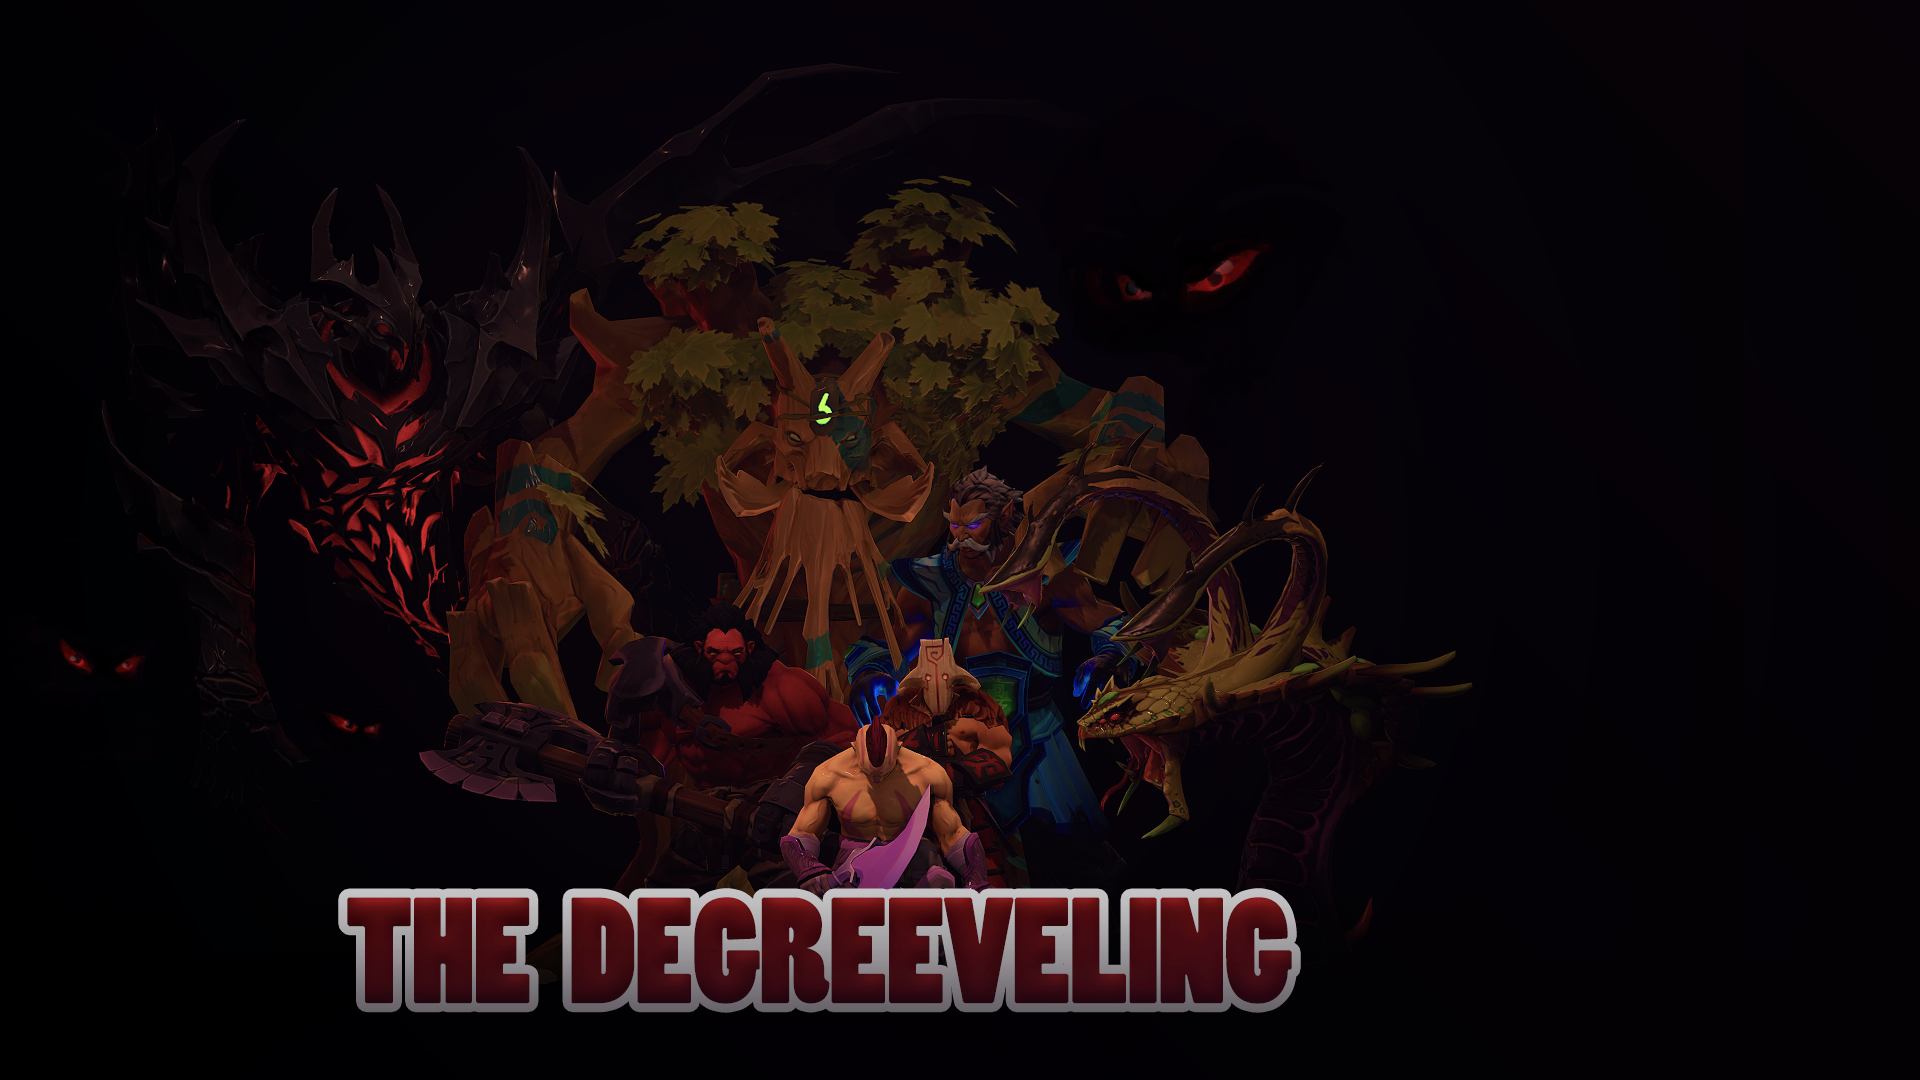
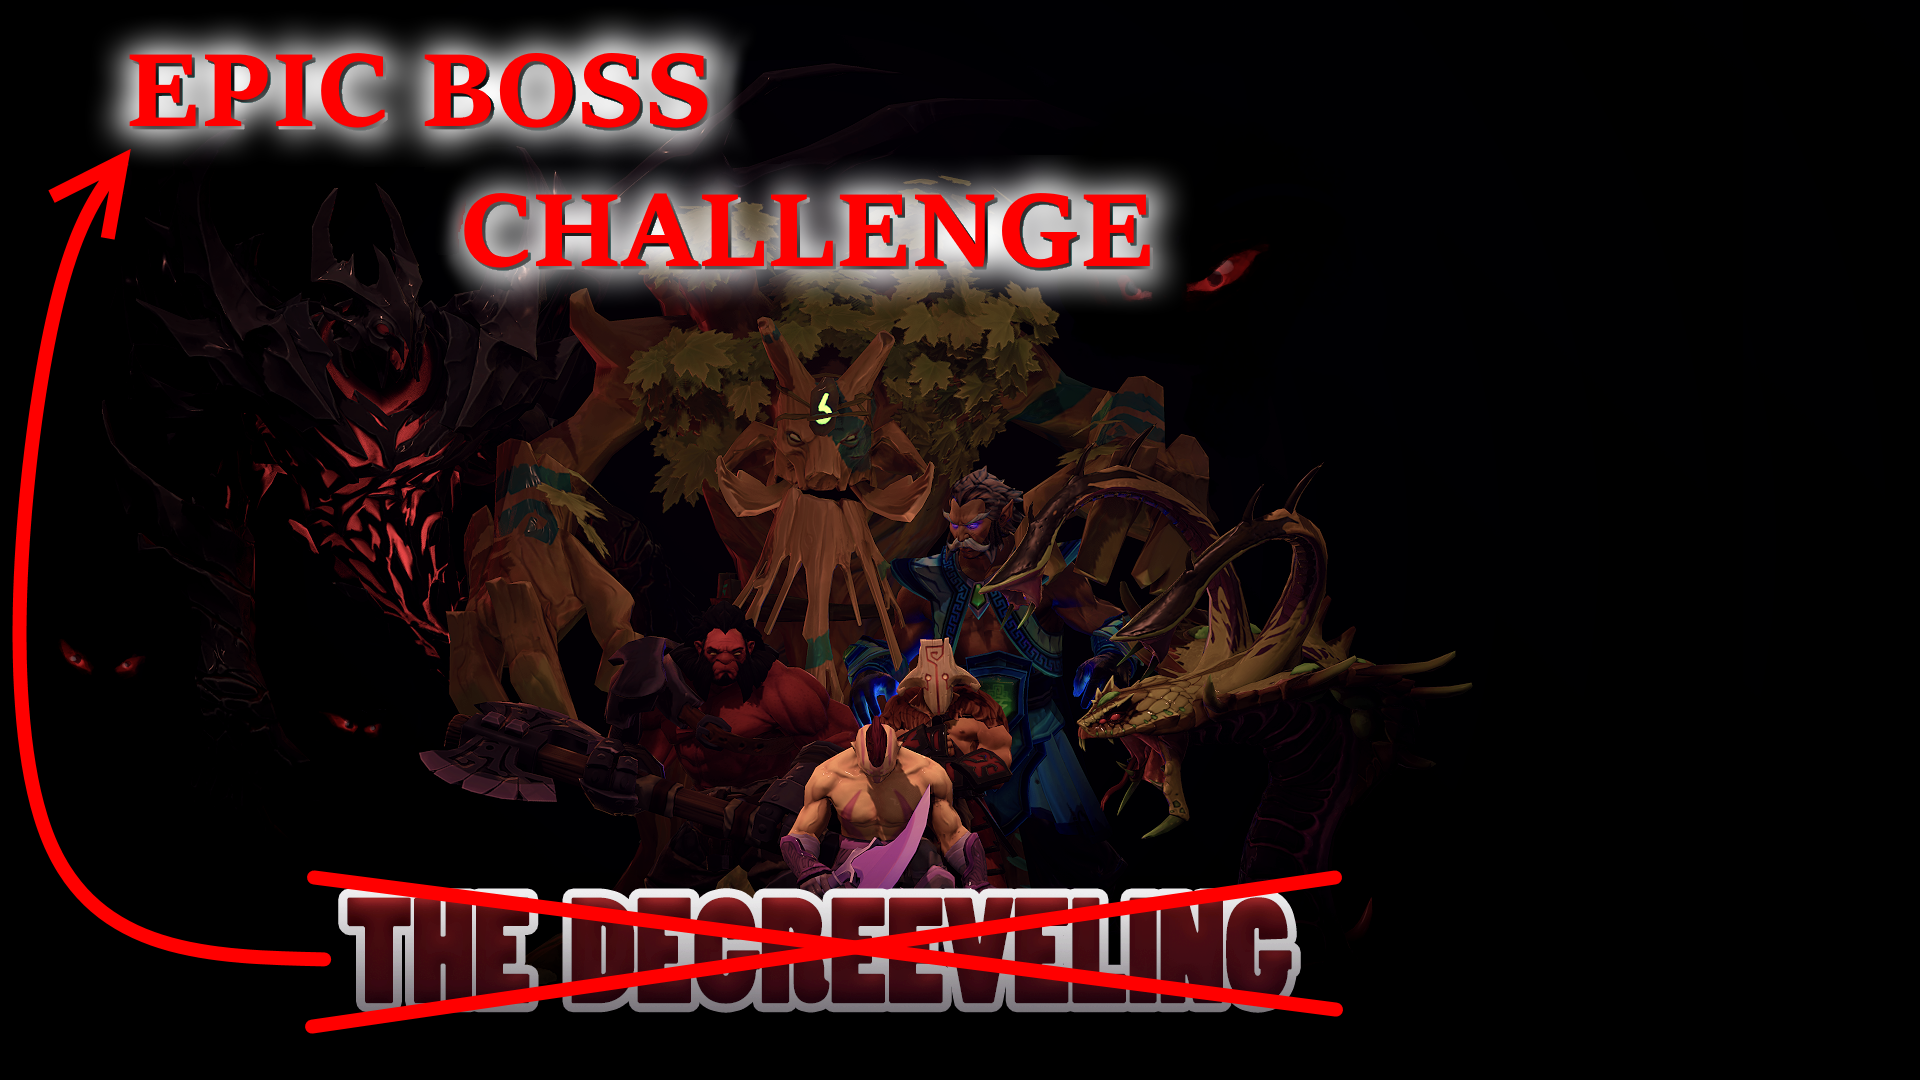
- changed game name & relevant pictures - updated tutorial - removed phase timers - removed phase 2 - teams can now interfere with each other when fighting bosses - when playing alone or in a team smaller than 5, you now start with bonus gold & experience - increased default initial gold from 625 to

diff --git a/content/dota_addons/frostivus_contest/panorama/scripts/custom_game/frostivus.js b/content/dota_addons/frostivus_contest/panorama/scripts/custom_game/frostivus.js
@@ -6,26 +6,10 @@ var playerPanels = {};
 
 function UpdateTimer( data )
 {
-	var timerText = "";
-	timerText += data.timer_minute_10;
-	timerText += data.timer_minute_01;
-	timerText += ":";
-	timerText += data.timer_second_10;
-	timerText += data.timer_second_01;
-
-	$( "#Timer" ).text = timerText + " left";
 }
 
 function UpdatePresentTimer( data )
 {
-	var timerText = "";
-	timerText += data.timer_minute_10;
-	timerText += data.timer_minute_01;
-	timerText += ":";
-	timerText += data.timer_second_10;
-	timerText += data.timer_second_01;
-
-	$( "#PresentTimer" ).text = timerText + " left till next present drop";
 }
 
 function Phase(args)
